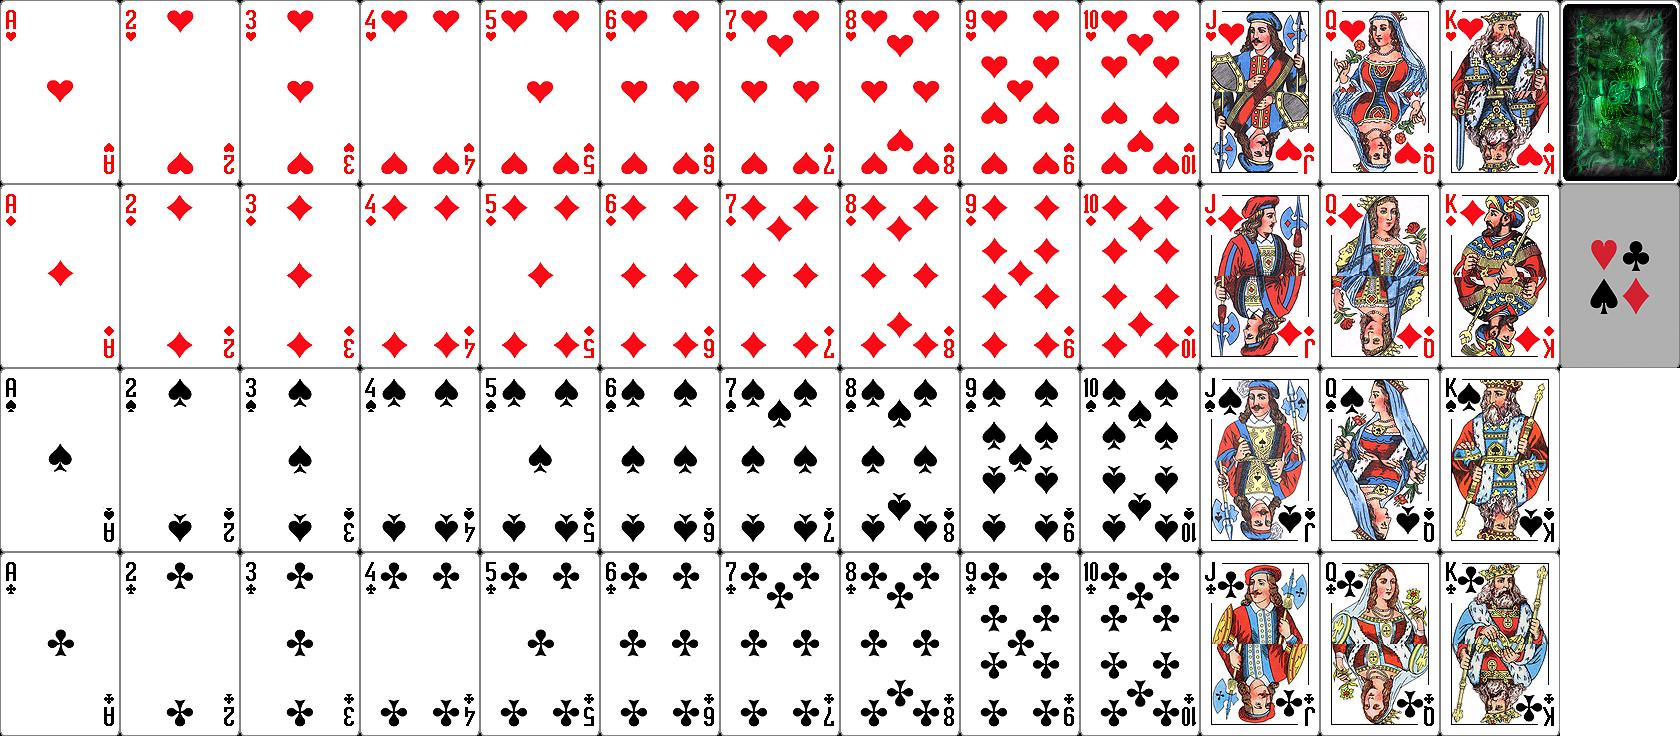
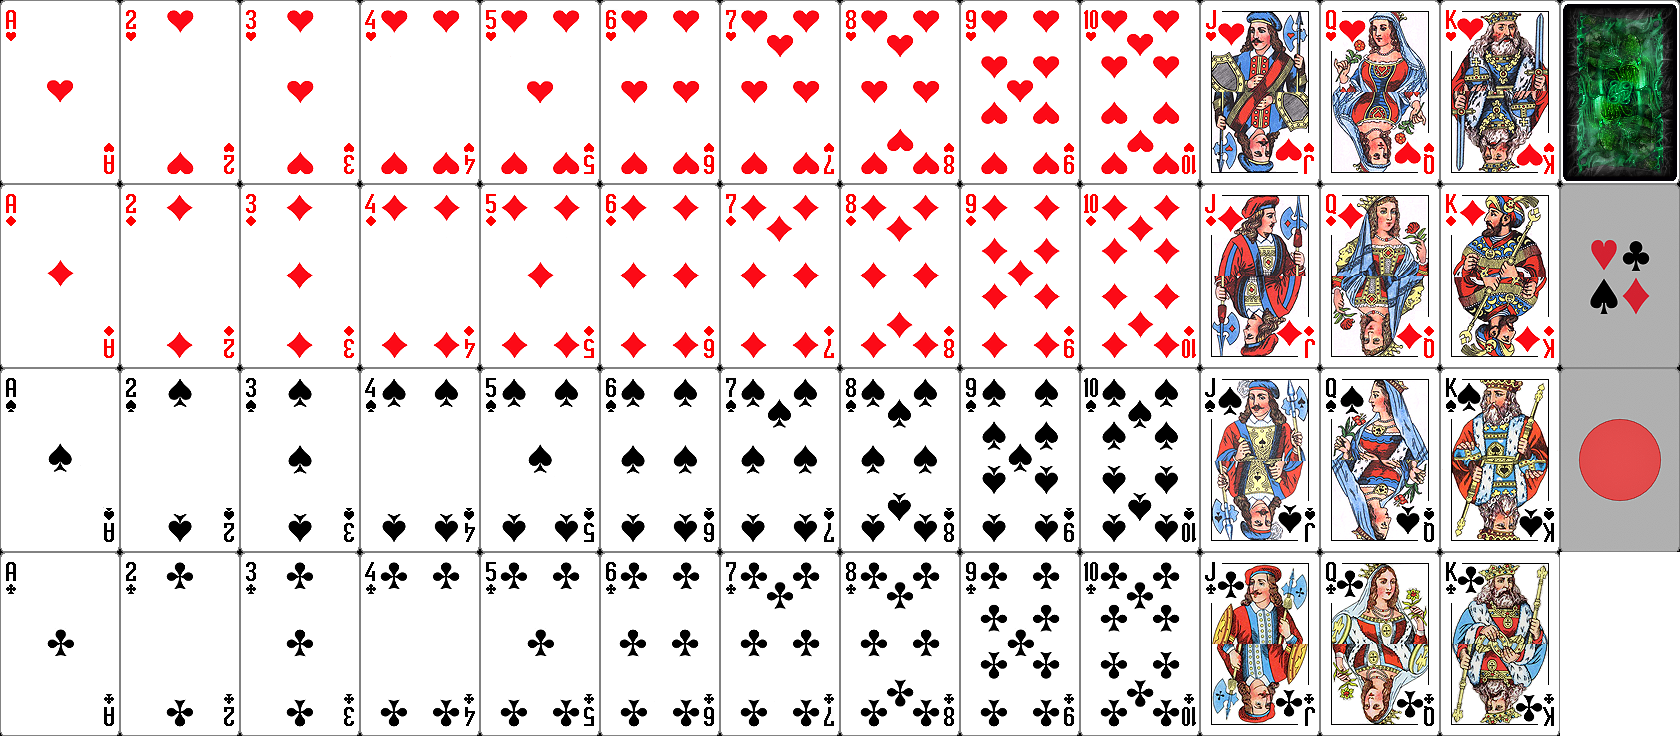
More updates

Changed region(s): [[0.9286, 0.5, 1.0, 0.75]]

diff --git a/Solitaire/Classes/Game.cs b/Solitaire/Classes/Game.cs
@@ -49,6 +49,10 @@ namespace Solitaire.Classes
                         var card = CurrentGame.DealtCards[CurrentGame.DealtCards.Count - 1];
                         System.Diagnostics.Debug.Print("Dealt pile: " + card.Suit + " " + card.Value);
                         break;
+
+                    default:
+                        System.Diagnostics.Debug.Print("Auto complete");
+                        break;
                 }
                 System.Diagnostics.Debug.Print(HitTest(e.Location).ToString());
             }
@@ -70,6 +74,7 @@ namespace Solitaire.Classes
             _cardSize = new Size(newWidth > img.Width ? img.Width : newWidth, newHeight > img.Height ? img.Height : newHeight);
             /* This is used for centering drawing of images on X axis and for mouse hit test */
             _gameCenter = (ClientSize.Width/2) - (_cardSize.Width/2);
+            Invalidate();
             base.OnResize(e);
         }
         #endregion
@@ -105,11 +110,33 @@ namespace Solitaire.Classes
         /* Private drawing methods */
         private void DrawDeck(Graphics e)
         {
-            var stackSize = CurrentGame.GameDeck.Count > 20 ? 6 : CurrentGame.GameDeck.Count > 10 ? 4 : CurrentGame.GameDeck.Count > 1 ? 2 : 1;
+            var stackSize = 4;
+            if (CurrentGame.GameDeck.Count < 8)
+            {
+                stackSize = 3;
+            }
+            if (CurrentGame.GameDeck.Count <= 4)
+            {
+                stackSize = 2;
+            }
+            if (CurrentGame.GameDeck.Count <= 1)
+            {
+                stackSize = 0;
+            }
+
             var stackOffset = _gameCenter - ((_cardSize.Width + 40) * 3);
             var xOffset = 0;
             var yOffset = 0;
+
             _deckRegion = new Rectangle(stackOffset, 40, _cardSize.Width, _cardSize.Height);
+
+            if (CurrentGame.GameDeck.Count == 0)
+            {
+                /* Deck is empty, draw empty deck image and piss off */
+                e.DrawImage(CurrentGame.EmptyDeck, stackOffset + xOffset, 40 + yOffset, _cardSize.Width, _cardSize.Height);
+                return;
+            }
+            /* Draw deck as if it's a pile of cards */
             for (var i = 0; i <= stackSize; i++)
             {
                 e.DrawImage(CurrentGame.CardBack, stackOffset + xOffset, 40 + yOffset, _cardSize.Width, _cardSize.Height);
@@ -169,7 +196,9 @@ namespace Solitaire.Classes
         }
         #endregion
 
+        #region Private methods
         #region Hit-test
+        /* I may want to change this as well */
         private HitTestType HitTest(Point location)
         {
             /* We need to work out what the mouse is over */
@@ -183,7 +212,7 @@ namespace Solitaire.Classes
             {
                 return HitTestType.Dealt;
             }
-            /* Playing stacks - I may want to change this... */
+            /* Playing stacks - I may want to change this... this seems .. weird to do */
             foreach (var stack in CurrentGame.PlayingStacks)
             {
                 foreach (var card in stack.Cards)
@@ -196,6 +225,15 @@ namespace Solitaire.Classes
             }
             return HitTestType.None;
         }
+        #endregion
+
+        #region IsValidMove
+        private bool IsValidMove(Card source, Card destination)
+        {
+            /* Place holder */
+            return false;
+        }
+        #endregion
         #endregion
     }
 }

diff --git a/Solitaire/Forms/FrmGame.cs b/Solitaire/Forms/FrmGame.cs
@@ -4,6 +4,7 @@
  * ©2025 Kangasoft Software */
 using System;
 using System.Drawing;
+using System.Reflection;
 using System.Windows.Forms;
 using Solitaire.Classes;
 using Solitaire.Classes.Helpers;
@@ -16,7 +17,12 @@ namespace Solitaire.Forms
         public FrmGame()
         {
             InitializeComponent();
+
             Icon = Icon.ExtractAssociatedIcon(Application.ExecutablePath);
+
+            var version = Assembly.GetExecutingAssembly().GetName().Version;
+            Text = string.Format("Kanga's Solitaire - {0}.{1}.{2} (Build: {3})", version.Major, version.Minor, version.Build, version.MinorRevision);
+
             /* Build menubar */
             var m = (ToolStripMenuItem)menuBar.Items.Add("Game");
             m.DropDownItems.AddRange(
@@ -32,6 +38,12 @@ namespace Solitaire.Forms
 
             m = (ToolStripMenuItem) menuBar.Items.Add("Help");
             m.DropDownItems.Add(MenuHelper.AddMenuItem("About", "ABOUT", OnMenuClick));
+        }
+
+        public override sealed string Text
+        {
+            get { return base.Text; }
+            set { base.Text = value; }
         }
 
         protected override void OnFormClosing(FormClosingEventArgs e)

diff --git a/Solitaire/Classes/FormEx.cs b/Solitaire/Classes/FormEx.cs
@@ -1,0 +1,40 @@
+/* Solitaire
+ * Version 1.0.0
+ * Written by: Jason James Newland
+ * ©2025 Kangasoft Software */
+using System;
+using System.Drawing;
+using System.Windows.Forms;
+
+namespace Solitaire.Classes
+{
+    public class FormEx : Form
+    {
+        protected override void OnResize(EventArgs e)
+        {
+            Invalidate();
+            base.OnResize(e);
+        }
+
+        protected override void OnPaint(PaintEventArgs e)
+        {
+            /* Draws a background color similar to Windows' Task panes */
+            var rect = new Rectangle(0, 0, ClientRectangle.Width, ClientRectangle.Height - 40);
+            using (var b = new SolidBrush(Color.White))
+            {
+                e.Graphics.FillRectangle(b, rect);
+                using (var p = new Pen(b))
+                {
+                    e.Graphics.DrawRectangle(p, rect);
+                }
+            }
+            using (var b = new SolidBrush(Color.LightGray))
+            {
+                using (var p = new Pen(b))
+                {
+                    e.Graphics.DrawLine(p, 0, rect.Bottom, rect.Width, rect.Bottom);
+                }
+            }
+        }
+    }
+}

diff --git a/Solitaire/Classes/GameData.cs b/Solitaire/Classes/GameData.cs
@@ -40,6 +40,7 @@ namespace Solitaire.Classes
     public sealed class GameData
     {
         public Image CardBack { get; private set; }
+        public Image EmptyDeck { get; private set; }
 
         public Deck GameDeck { get; private set; }
         public Deck DealtCards { get; private set; }
@@ -126,6 +127,11 @@ namespace Solitaire.Classes
                                     };
                                     HomeStacks.Add(stack);
                                 }
+                                break;
+
+                            case 2:
+                                /* Set empty deck image */
+                                EmptyDeck = cardImage;
                                 break;
                         }
                     }

diff --git a/Solitaire/Forms/FrmGame.Designer.cs b/Solitaire/Forms/FrmGame.Designer.cs
@@ -54,8 +54,8 @@
             // 
             this.AutoScaleDimensions = new System.Drawing.SizeF(7F, 15F);
             this.AutoScaleMode = System.Windows.Forms.AutoScaleMode.Font;
-            this.BackColor = System.Drawing.Color.FromArgb(((int)(((byte)(0)))), ((int)(((byte)(64)))), ((int)(((byte)(0)))));
-            this.BackgroundImageLayout = System.Windows.Forms.ImageLayout.Stretch;
+            this.BackColor = System.Drawing.SystemColors.Control;
+            this.BackgroundImage = global::Solitaire.Properties.Resources.bg;
             this.ClientSize = new System.Drawing.Size(1113, 693);
             this.Controls.Add(this.statusBar);
             this.Controls.Add(this.menuBar);

diff --git a/Solitaire/Properties/Resources.Designer.cs b/Solitaire/Properties/Resources.Designer.cs
@@ -63,6 +63,16 @@ namespace Solitaire.Properties {
         /// <summary>
         ///   Looks up a localized resource of type System.Drawing.Bitmap.
         /// </summary>
+        internal static System.Drawing.Bitmap bg {
+            get {
+                object obj = ResourceManager.GetObject("bg", resourceCulture);
+                return ((System.Drawing.Bitmap)(obj));
+            }
+        }
+        
+        /// <summary>
+        ///   Looks up a localized resource of type System.Drawing.Bitmap.
+        /// </summary>
         internal static System.Drawing.Bitmap card_set {
             get {
                 object obj = ResourceManager.GetObject("card_set", resourceCulture);

diff --git a/Solitaire/Forms/FrmAbout.cs b/Solitaire/Forms/FrmAbout.cs
@@ -2,12 +2,12 @@
  * Version 1.0.0
  * Written by: Jason James Newland
  * ©2025 Kangasoft Software */
-using System.Windows.Forms;
+using Solitaire.Classes;
 
 namespace Solitaire.Forms
 {
     /* Show info about the game */
-    public partial class FrmAbout : Form
+    public partial class FrmAbout : FormEx
     {
         public FrmAbout()
         {
